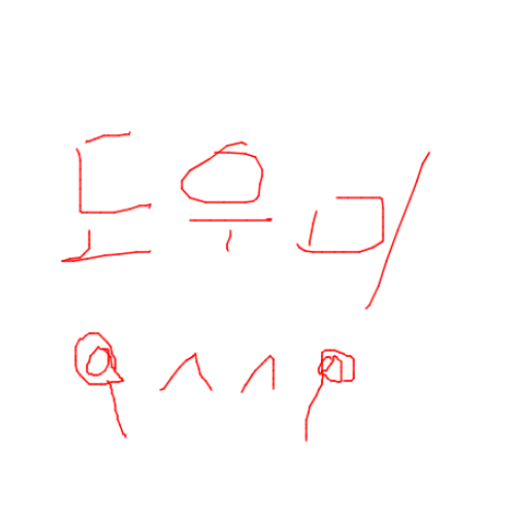
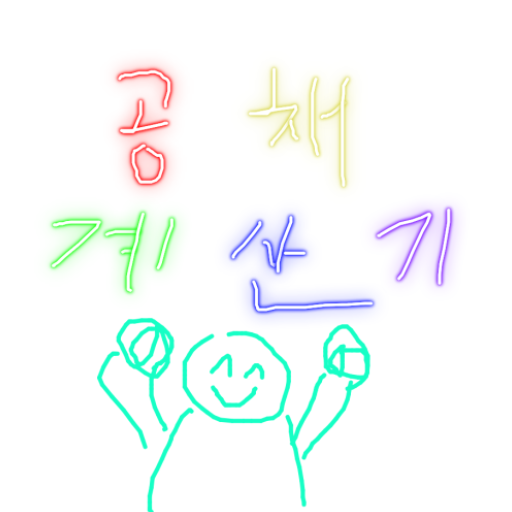
v0.81 - 앱아이콘 및 이름 변경 - 결과화면 여백 제거

Changed region(s): [[0.0938, 0.125, 0.9062, 1.0], [0.2812, 0.9062, 0.3125, 1.0]]

diff --git a/app/src/main/java/com/jge/testapp2/OverlayService.kt b/app/src/main/java/com/jge/testapp2/OverlayService.kt
@@ -359,6 +359,7 @@ private var selectedTag = 0
 
 
                 val listView = RecyclerView(this).apply {
+                    overScrollMode = RecyclerView.OVER_SCROLL_NEVER
                     layoutParams = ViewGroup.LayoutParams(
                         ViewGroup.LayoutParams.MATCH_PARENT,
                         ViewGroup.LayoutParams.MATCH_PARENT
@@ -439,7 +440,7 @@ private var selectedTag = 0
 
             val builder = NotificationCompat.Builder(this, "default")
                 .setSmallIcon(R.mipmap.appicon)
-                .setContentTitle("공채도우미 작동 중")
+                .setContentTitle("공채계산기 작동 중")
                 .setContentText("알림 누르거나 결과 화면에서 X 버튼 누를 경우 앱 종료")
                 .setContentIntent(pendingIntent) // 알림 클릭 시 이동
                 .setOngoing(true)
